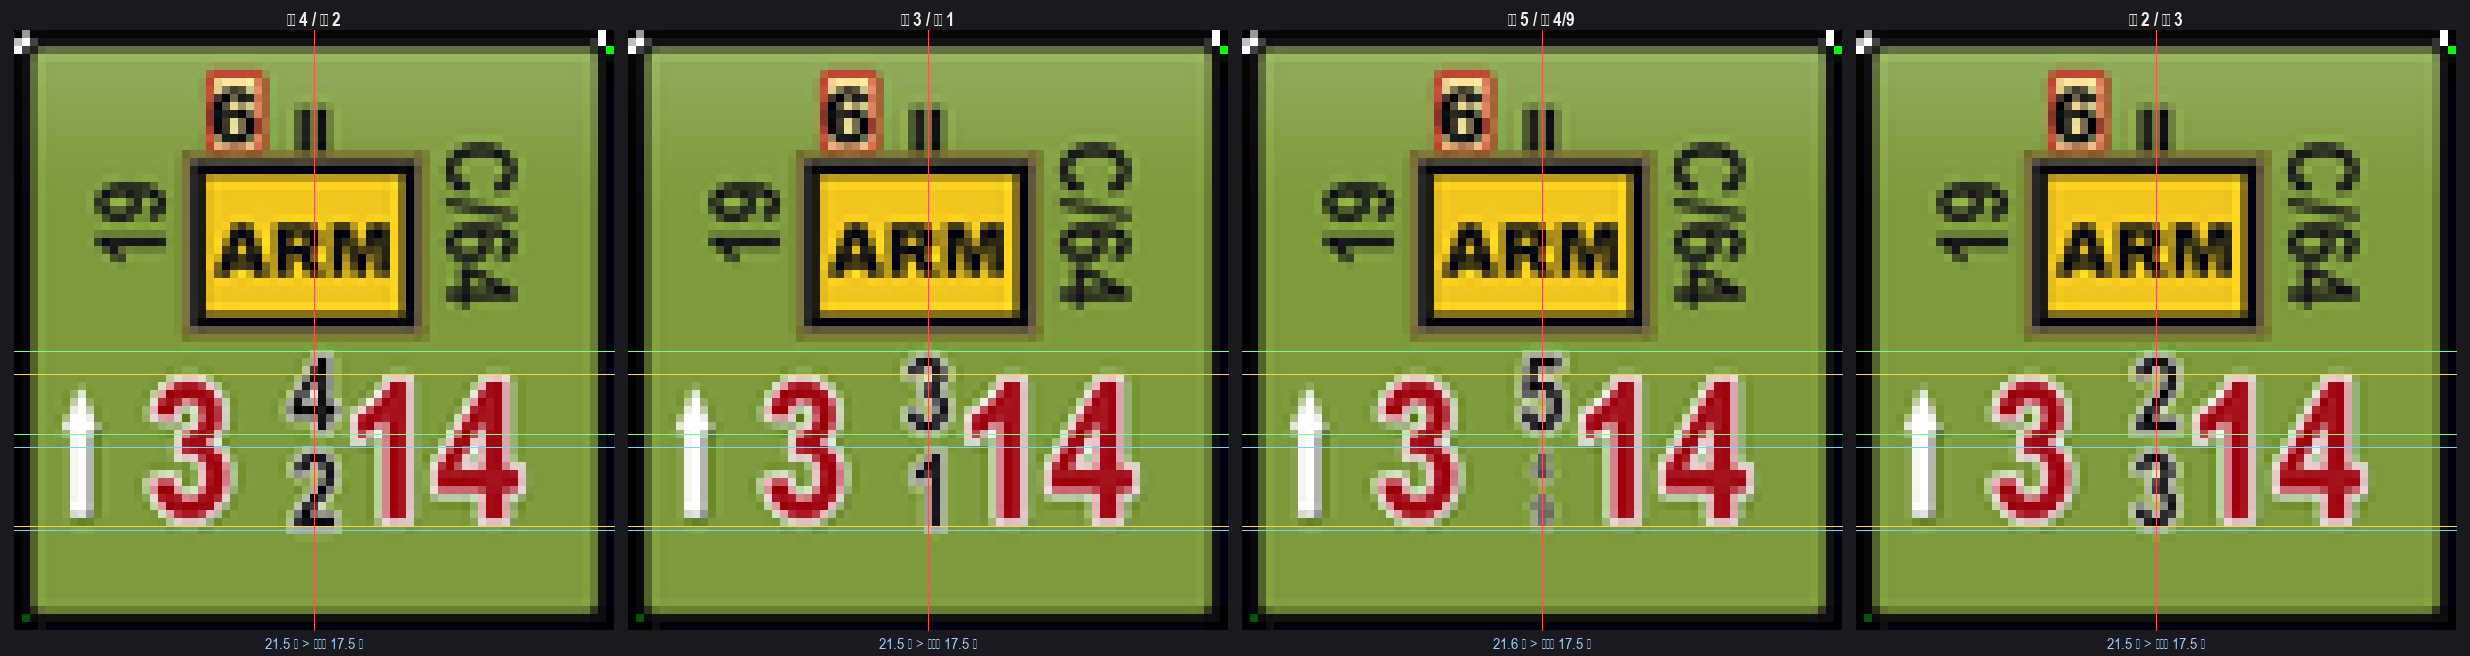
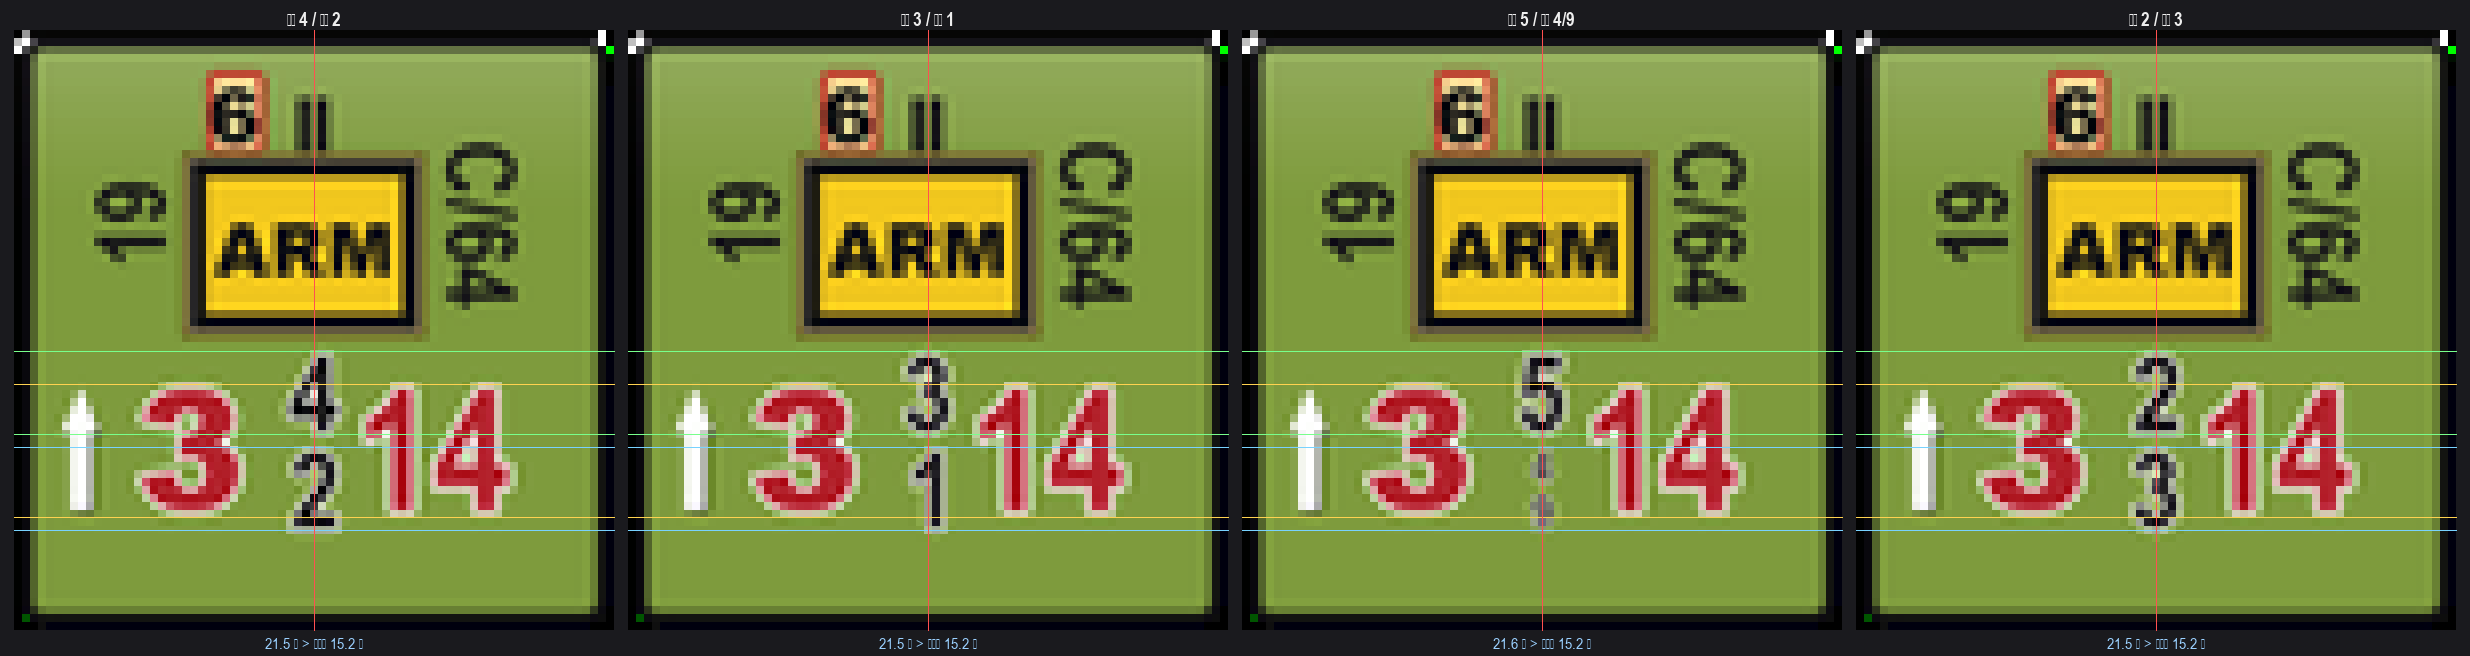
fix(verify): hq_back 改用差分渲染测量，刷新三张对照图并修正文档口径
bcs_verify_hq_back.py 自 v1.0.0 起用「黑墨」掩膜找 HQ 背面移动力，而 b155a4a 把
移动力改成按 move_class 上色（tac 红字 #B3202A），掩膜取空 → bbox 返回 None →
每次跑 §0 都在 b[3] 处抛 TypeError，HQ 背面版式实际上处于「无校验」状态。

- 改用差分渲染（正常 vs 该数值清空，逐像素取差）：与配色无关，tac/leg/truck
  三种移动力配色共用一把尺子，也不再被背面白带和底部斜面高光误判成墨迹
- 覆盖 3 种 move_class + 两位数移动力；取不到墨迹时报出是哪个窗口并以 exit 1 退出
- 版式契约改为 EXPECT_ART_H=13.60 / EXPECT_MA_H=19.72 / EXPECT_RATIO=1.45，
  修掉过期的 1.12 期望（HQ_MA_SCALE 现为 1.45）
- 实测：炮击高 13.75、移动力高 19.75、高度比 1.436、中心差 0.00，四处判定一致
- 反向测试：改 HQ_MA_SCALE=1.20 / HQ_MA_B 下移 8 格 / HQ_NUM_H=17.0 均能报红

samples/{value,center,id}_symmetry.png 自首个提交 23189ac 起就没再生成过，刷新到
当前输出（连跑两轮 SHA256 一致，可复现）。

文档：§0 统一用 $py 全路径（本机裸 python 是 WindowsApps 3.14.2 / Pillow 12.2.0）、
§12 记录差分渲染口径与契约常量、§13.1 补上实测解释器版本。

diff --git a/bcs_verify_hq_back.py b/bcs_verify_hq_back.py
@@ -1,5 +1,14 @@
-# -*- coding: utf-8 -*-
-"""量 HQ 激活面：炮击值 vs 移动力的墨迹高度与中心线，确认“移动力略大、中心对齐”。"""
+# -*- coding: utf-8 -*-
+"""量 HQ 激活面：炮击值 vs 移动力的墨迹高度与中心线，确认「移动力略大、中心对齐」。
+
+测量口径 —— 差分渲染（v1.6.0 起这两个数值上色方式不同，任何一种颜色掩膜都会踩坑）：
+  · 炮击值  —— _hq_num()：黑字 #101010 + 白描边
+  · 移动力  —— draw_badged_value(..., MOVE_CLASS_STYLE[move_class], ...)：
+              tac 红字 #B3202A / leg 白字 #FFFFFF / truck 近黑 #1A1A1A
+  「黑墨」掩膜对红字/白字直接取空（老版本就是这样抛 TypeError 的）；而按「偏离底色」
+  取又会把背面白带和底部斜面高光算成墨迹。所以这里渲染两遍 —— 正常 vs
+  该数值清空 —— 逐像素取差异，差异区即该数值的完整墨迹（含描边），与配色无关。
+"""
 import os
 import sys
 
@@ -15,28 +24,94 @@ for _s in (sys.stdout, sys.stderr):
         pass
 
 U = 600 / 75.0
-HQ = R.Counter(kind="hq", side="back", command_radius="10", formation_id="",
-               activation="4", arty="4", ma="8", bg="#7E9B3D", bar_color="#6E8B3D")
-img = R.render(HQ, 600, ss=1)
-a = np.array(img.convert("RGB")).astype(int)
-dark = (a[:, :, 0] < 70) & (a[:, :, 1] < 70) & (a[:, :, 2] < 70)
+ON = "#7E9B3D"                      # 算子底色
+SPLIT = 44.0                        # 左右分界：< 44 归炮击值，>= 44 归移动力
+
+TOL_H = 0.5                         # 墨迹高 vs 设计目标（格）
+TOL_RATIO = 0.06                    # 高度比 vs HQ_MA_SCALE
+TOL_C = 0.30                        # 中心线 / 中心漂移（格）
+
+# 版式契约（v1.6.0 实测值）。有意改 L 里这几个常量时，这里必须同步改 —— 红了是在提醒你
+# 确认「改版式」而不是「画歪了」，这正是交接文档 §14.1 要求的「改完对比打印值」。
+EXPECT_ART_H = 13.60                # = HQ_NUM_H
+EXPECT_MA_H = 19.72                 # = HQ_NUM_H * HQ_MA_SCALE
+EXPECT_RATIO = 1.45                 # = HQ_MA_SCALE
 
 
-def bbox(x0, x1, y0, y1):
-    sub = dark[int(y0 * U):int(y1 * U), int(x0 * U):int(x1 * U)]
-    ys, xs = np.where(sub)
+def make_hq(arty="4", ma="8", move_class="tac"):
+    return R.Counter(kind="hq", side="back", command_radius="10", formation_id="",
+                     activation="4", arty=arty, ma=ma, bg=ON, bar_color="#6E8B3D",
+                     move_class=move_class)
+
+
+def pixels(ct):
+    return np.array(R.render(ct, 600, ss=1).convert("RGB")).astype(int)
+
+
+def bbox(mask):
+    ys, xs = np.where(mask)
     if len(ys) == 0:
         return None
-    return (x0 + xs.min() / U, y0 + ys.min() / U, x0 + xs.max() / U, y0 + ys.max() / U)
+    return (xs.min() / U, ys.min() / U, xs.max() / U, ys.max() / U)
 
 
-arty = bbox(23, 44, 47, 72)
-ma = bbox(45, 70, 47, 72)
-for name, b in (("炮击值 4", arty), ("移动力 8", ma)):
-    h = b[3] - b[1] + 1 / U
-    cy = (b[1] + b[3]) / 2
-    print(f"{name}: y {b[1]:5.2f}..{b[3]:5.2f}  高 {h:5.2f}  中心 y {cy:5.2f}"
-          f"  x {b[0]:5.2f}..{b[2]:5.2f}")
-if arty and ma:
-    print(f"\n高度比 = {(ma[3]-ma[1])/(arty[3]-arty[1]):.3f}（应 >1 且 ≈1.12）")
-    print(f"中心差 = {abs((arty[1]+arty[3])/2 - (ma[1]+ma[3])/2):.2f} 格（应 ≈0）")
+def probe(ma_txt, mc):
+    """返回 (炮击值墨迹框, 移动力墨迹框)；测不到的返回 None。"""
+    full = pixels(make_hq(arty="4", ma=ma_txt, move_class=mc))
+    blank = pixels(make_hq(arty="", ma="", move_class=mc))
+    diff = np.abs(full - blank).max(axis=2) > 0
+    xs = np.arange(diff.shape[1]) / U
+    return bbox(diff & (xs < SPLIT)[None, :]), bbox(diff & (xs >= SPLIT)[None, :])
+
+
+art_des = R.L["HQ_NUM_H"]
+ma_des = R.L["HQ_NUM_H"] * R.L["HQ_MA_SCALE"]
+print(f"契约：炮击墨迹高 {EXPECT_ART_H:.2f} · 移动力墨迹高 {EXPECT_MA_H:.2f} · 高度比 {EXPECT_RATIO:.2f}")
+print(f"设计：炮击墨迹高 {art_des:.2f} · 移动力墨迹高 {ma_des:.2f}"
+      f"（HQ_NUM_H {R.L['HQ_NUM_H']} × HQ_MA_SCALE {R.L['HQ_MA_SCALE']}）"
+      f"{'' if (abs(art_des-EXPECT_ART_H) <= TOL_H and abs(ma_des-EXPECT_MA_H) <= TOL_H) else '  ← 常量变了：确认版式后同步改 EXPECT_*'}")
+print(f"      炮击中心 {R.L['HQ_ARTY_B']} · 移动力中心 {R.L['HQ_MA_B']}\n")
+
+print(f"{'用例':>12}{'炮击高':>8}{'移动力高':>9}{'高度比':>7}"
+      f"{'炮击中心y':>10}{'移动力中心y':>11}{'中心差':>7}  判定")
+
+ok_all = True
+for ma_txt, mc in (("8", "tac"), ("8", "leg"), ("8", "truck"), ("12", "tac")):
+    art, ma = probe(ma_txt, mc)
+    if art is None or ma is None:
+        side = "炮击值" if art is None else "移动力"
+        print(f"{ma_txt + '/' + mc:>12}  ← {side}取不到墨迹（掩膜或版式变了）")
+        ok_all = False
+        continue
+
+    ha = art[3] - art[1] + 1 / U
+    hm = ma[3] - ma[1] + 1 / U
+    ca = (art[1] + art[3]) / 2
+    cm = (ma[1] + ma[3]) / 2
+    cxa = (art[0] + art[2]) / 2
+    cxm = (ma[0] + ma[2]) / 2
+    ratio = hm / ha
+    d_ha, d_hm = abs(ha - EXPECT_ART_H), abs(hm - EXPECT_MA_H)
+    d_ratio = abs(ratio - EXPECT_RATIO)
+    d_c = abs(ca - cm)
+    d_ca = abs(ca - R.L["HQ_ARTY_B"][1])
+    d_cm = abs(cm - R.L["HQ_MA_B"][1])
+    d_xa = abs(cxa - R.L["HQ_ARTY_B"][0])
+    d_xm = abs(cxm - R.L["HQ_MA_B"][0])
+    ok = (d_ha <= TOL_H and d_hm <= TOL_H and d_ratio <= TOL_RATIO and d_c <= TOL_C
+          and d_ca <= TOL_C and d_cm <= TOL_C and d_xa <= TOL_C and d_xm <= TOL_C)
+    ok_all = ok_all and ok
+    print(f"{ma_txt + '/' + mc:>12}{ha:>8.2f}{hm:>9.2f}{ratio:>7.3f}"
+          f"{ca:>10.2f}{cm:>11.2f}{d_c:>7.2f}  {'一致' if ok else '检查'}"
+          f"{'' if d_ha <= TOL_H else ' ←炮击高偏离设计'}"
+          f"{'' if d_hm <= TOL_H else ' ←移动力高偏离设计'}"
+          f"{'' if d_ratio <= TOL_RATIO else ' ←高度比偏离 %0.2f' % EXPECT_RATIO}"
+          f"{'' if d_c <= TOL_C else ' ←中心线不齐'}"
+          f"{'' if d_ca <= TOL_C else ' ←炮击中心漂移'}"
+          f"{'' if d_cm <= TOL_C else ' ←移动力中心漂移'}"
+          f"{'' if d_xa <= TOL_C else ' ←炮击水平偏心'}"
+          f"{'' if d_xm <= TOL_C else ' ←移动力水平偏心'}")
+
+print(f"\n容差：墨迹高 ±{TOL_H} 格 · 高度比 ±{TOL_RATIO} · 中心 ±{TOL_C} 格")
+print("总体：", "全部通过" if ok_all else "有偏差，见上面「检查」行")
+sys.exit(0 if ok_all else 1)
